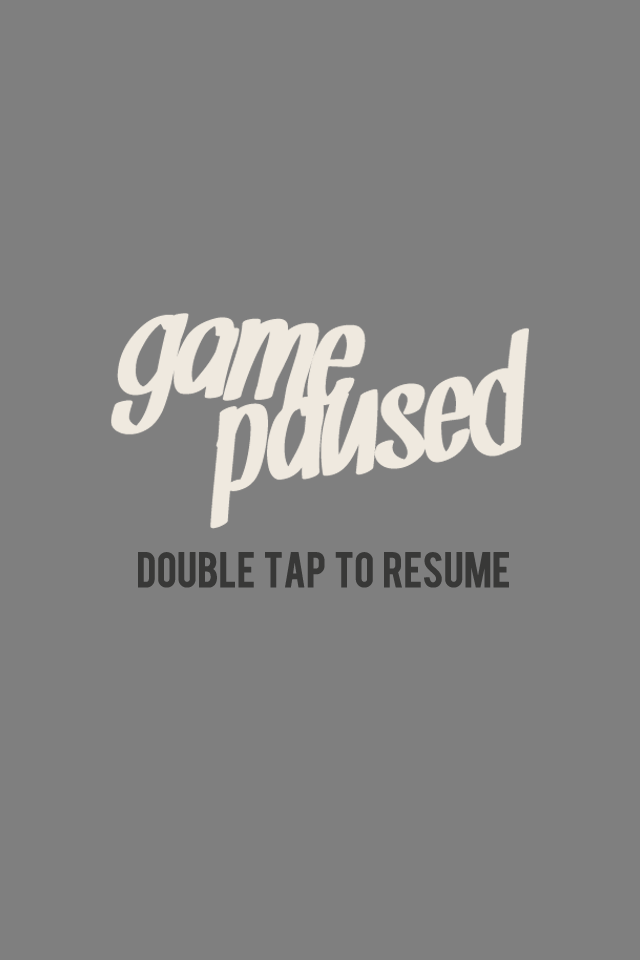
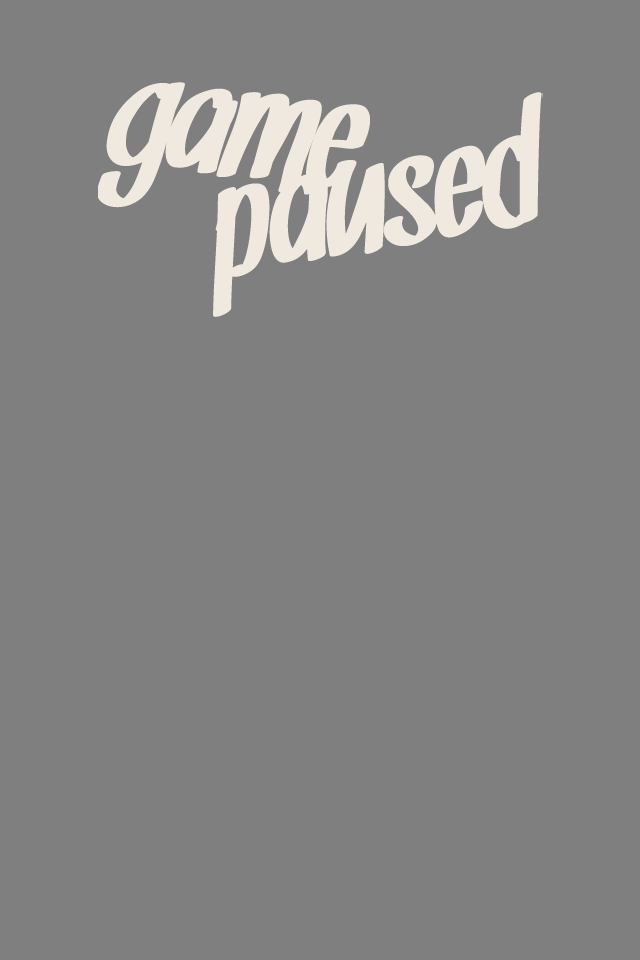
PauseLayer funktioniert

Changed region(s): [[0.1562, 0.0625, 0.8438, 0.625]]

diff --git a/Classes/GameScene.m b/Classes/GameScene.m
@@ -55,9 +55,18 @@ static float prevHeroRotation = 0;
 		CCSprite *bg = [CCSprite spriteWithFile:@"BG/bg.png"];
 		bg.position = ccp(160,240);
 		[self addChild:bg z:-1];
+		
 		//PAUSELAYER
 		pausedScreen = [CCSprite spriteWithFile:@"pausedScreen.png"];
 		pausedScreen.position = ccp(160,240);
+		CCLabelBMFont* label1 = [CCLabelBMFont labelWithString:@"resume" fntFile:@"bebas.fnt"];
+		CCMenuItemLabel *menuItem1= [CCMenuItemLabel itemWithLabel:label1 target:self selector:@selector(resume:)];
+		CCLabelBMFont* label2 = [CCLabelBMFont labelWithString:@"back to menu" fntFile:@"bebas.fnt"];
+		CCMenuItemLabel *menuItem2= [CCMenuItemLabel itemWithLabel:label2 target:self selector:@selector(backToMenu:)];
+		CCMenu * myMenu = [CCMenu menuWithItems:menuItem1,menuItem2,nil];
+		myMenu.position = ccp(160, 200);
+		[myMenu alignItemsVertically];
+		[pausedScreen addChild:myMenu];
 		pausedScreen.visible = NO;
 		[self addChild:pausedScreen z:2];
 				
@@ -305,6 +314,7 @@ static float prevHeroRotation = 0;
 	}
 }
 
+
 - (void)accelerometer:(UIAccelerometer*)accelerometer didAccelerate:(UIAcceleration*)acceleration
 {	
 	static float prevX=0, prevY=0;
@@ -334,23 +344,42 @@ static float prevHeroRotation = 0;
     for (UITouch *touch in touches) {
 
 		if (![GameData sharedData].isGamePaused) {
-			[[CCDirector sharedDirector] pause];
+			[smgr stop];
 			[GameData sharedData].isGamePaused = YES;
 			pausedScreen.visible = YES;
-		} else {
-			[[CCDirector sharedDirector] resume];
-			[GameData sharedData].isGamePaused = NO;
-			pausedScreen.visible = NO;
-		}
-
-		
+		} 
     }
 }
 
 - (void)ccTouchesCancelled:(NSSet *)touches withEvent:(UIEvent *)event {
 }
 
+-(void)resume:(CCMenuItem *) menuItem {
+	if ([GameData sharedData].isGamePaused) {
+		pausedScreen.visible = NO;	
+		[smgr start];
+		[GameData sharedData].isGamePaused = NO;
+	}
+}
 
+-(void)backToMenu:(CCMenuItem *) menuItem {
+	if ([GameData sharedData].isGamePaused) {
+		NSLog(@"Ending Game");
+		if ([GameData sharedData].isThereAHero) {
+			sphere.sprite.rotation = -1*ccpToAngle(sphere.sprite.shape->body->v)*180/M_PI-90;
+		}
+		//ALLE OBJEKTE IN ENEMYARRAY WERDEN ENTFERNT, UM RETAINCOUNTS ZU VERRINGERN->KEINE MEMORY LEAKS
+		[[GameData sharedData].enemyArray removeAllObjects];
+		//SCHEDULERS ENTFERNEN, DASS GAMELAYER NICHT RETAINED WIRD
+		[self unschedule:@selector(nextFrame:)];
+		[smgr removeCollisionCallbackBetweenType:kHeroCollisionType otherType:kEnemyCollisionType];
+		[smgr removeCollisionCallbackBetweenType:kEnemyCollisionType otherType:kEnemyCollisionType];
+		[smgr stop];
+		//ZU HELLOWORLD LAYER
+		[[CCDirector sharedDirector] replaceScene:
+		 [CCTransitionFade transitionWithDuration:0.5f scene:[HelloWorld scene]]];
+	}
+}
 
 -(void) onEnter
 {
@@ -388,6 +417,7 @@ static float prevHeroRotation = 0;
 	//ZU GAMEOVER LAYER
 	[[CCDirector sharedDirector] replaceScene:[CCTransitionFade transitionWithDuration:0.5f scene:[GameOver scene]]];
 }
+
 
 - (void) dealloc
 {

diff --git a/Classes/EnemySphere.h b/Classes/EnemySphere.h
@@ -23,5 +23,5 @@
 //@property(readwrite,assign) int enemyKind;
 +(id) enemyWithMgr:(SpaceManager *)mgr kind:(int)kind level:(int)size position:(CGPoint)location velocity:(CGPoint)velocity;
 -(id) initWithMgr:(SpaceManager *)mgr kind:(int)kind level:(int)size position:(CGPoint)location velocity:(CGPoint)velocity;
--(void) move:(ccTime)dt;
+-(void) move:(ccTime)dt; 
 @end

diff --git a/Classes/GameScene.h b/Classes/GameScene.h
@@ -29,4 +29,6 @@
 - (void) handleEnemyCollision:(CollisionMoment)moment arbiter:(cpArbiter*)arb space:(cpSpace*)space;
 - (void) startGame;
 - (void) endGame;
+- (void) resume:(CCMenuItem *) menuItem;
+- (void) backToMenu:(CCMenuItem *) menuItem;
 @end
